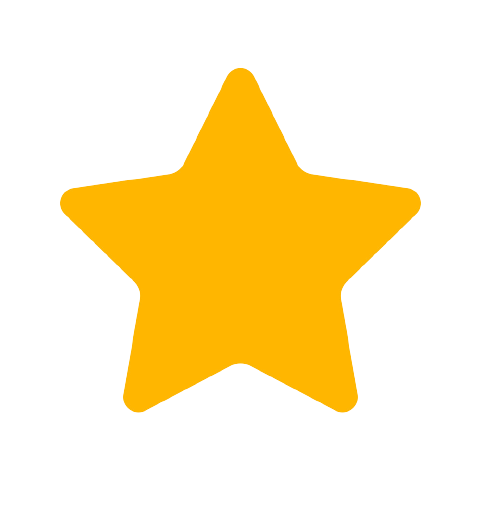
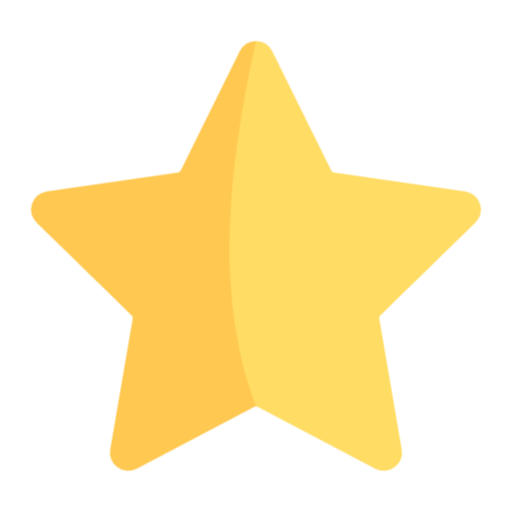
edited ui for watchlist table

diff --git a/vueApp/src/components/Watchlist/WatchlistTable.vue b/vueApp/src/components/Watchlist/WatchlistTable.vue
@@ -1,34 +1,191 @@
 <template>
-    <div>
-        <ScrollableTable :headers="tableHeaders" :rows="tableRows" />
-    </div>
+  <div class="table-container">
+    <table id="scrollable-table" class="auto-index">
+      <thead>
+        <tr>
+          <th>#</th>
+          <th>Name</th>
+          <th>Ticker</th>
+          <th>Price</th>
+          <th></th>
+        </tr>
+      </thead>
+
+      <tbody>
+        <tr v-for="(item, index) in watchlistData" :key="item.Stock">
+          <td>{{ index + 1 }}</td>
+          <td>{{ item.Stock }}</td>
+
+          <td>
+            <!-- Display Delete button if not in editing state -->
+            <button class="btw" @click="deleteItem(item)">
+              <img src="@/assets/deleteIcon.png" alt="Delete" />
+            </button>
+          </td>
+        </tr>
+      </tbody>
+    </table>
+
+    <!-- Display message if watchlist is empty -->
+    <p v-if="hasData == false" class="no-stocks-message">
+      You have not added any stocks to your watchlist.
+    </p>
+  </div>
 </template>
 
 <script>
+import { editInstrument, deleteInstrument } from "@/firebasefunc.js";
+import { COLLECTION_NAMES } from "@/firebaseConfig.js";
+import firebaseApp from "@/firebase.js";
+import { getAuth, onAuthStateChanged } from "firebase/auth";
 
-  import ScrollableTable from '@/components/Common/ScrollableTable.vue';
-  
-  export default {
-    components: {
-      ScrollableTable,
+export default {
+  data() {
+    return {
+      stockName: "",
+      wishlistData: [],
+      useremail: "",
+    };
+  },
+
+  async mounted() {
+    const auth = getAuth();
+    onAuthStateChanged(auth, (user) => {
+      if (user) {
+        this.useremail = user.email;
+        this.fetchWishlistData();
+      } else {
+        this.useremail = ""; // Ensure it's cleared when the user signs out
+        this.wishlistData = [];
+      }
+    });
+  },
+
+  props: {
+    watchlistData: Array,
+    hasData: Boolean,
+  },
+
+  methods: {
+    async deleteItem(stock) {
+      await deleteInstrument(COLLECTION_NAMES.WISHLIST, this.useremail, stock);
+
+      this.$emit("refresh-request");
     },
-    data() {
-      return {
-        tableHeaders: ['#', 'Name', 'Price', '% Change', 'Market Cap', 'Volume'],
-        tableRows: [
-        ["Apple", "$XXX", "0.00%", " $XXX", "$XXX"],
-          ["Apple", "$XXX", "0.00%", " $XXX", "$XXX"],
-          ["Apple", "$XXX", "0.00%", " $XXX", "$XXX"],
-          ["Apple", "$XXX", "0.00%", " $XXX", "$XXX"],
-          ["Apple", "$XXX", "0.00%", " $XXX", "$XXX"],
-          ["Apple", "$XXX", "0.00%", " $XXX", "$XXX"],
-          ["Apple", "$XXX", "0.00%", " $XXX", "$XXX"],
-          ["Apple", "$XXX", "0.00%", " $XXX", "$XXX"],
-          ["Apple", "$XXX", "0.00%", " $XXX", "$XXX"],
-          
-          // Add more rows as needed
-        ],
-      };
+
+    async fetchWishlistData() {
+      const db = firebaseApp.firestore(); // Assuming you have already initialized the Firestore instance
+
+      const subcollectionRef = collection(db, "wishlist");
+
+      const querySnapshot = await getDocs(subcollectionRef);
+
+      this.wishlistData = [];
+
+      querySnapshot.forEach((doc) => {
+        this.wishlistData.push(doc.data());
+      });
     },
-  };
-  </script>
+  },
+};
+</script>
+
+<style>
+/* Box */
+.table-container {
+  height: 33vw;
+  overflow-y: auto;
+  border-radius: 25px;
+  justify-content: center;
+  background-color: white;
+  box-shadow: 0 8px 10px rgba(0, 0, 0, 0.3);
+  margin-bottom: 0;
+}
+
+/* Table */
+#scrollable-table {
+  width: 90%;
+  background-color: white;
+  border-collapse: collapse;
+  margin: 0 auto;
+}
+
+#scrollable-table th,
+#scrollable-table td {
+  padding: 0.3vw;
+  text-align: center;
+  border-bottom: 2px solid #d0d0d0;
+  padding-bottom: 2.7%;
+  padding-top: 2.7%;
+  font-size: 1.7vw;
+  font-weight: bold;
+}
+
+#scrollable-table th {
+  padding-top: 2vw;
+  background-color: white;
+}
+
+#scrollable-table thead th {
+  position: sticky;
+  top: 0;
+}
+
+/* Add styles for input elements within table cells */
+#scrollable-table input[type="number"] {
+  width: 25%;
+  padding: 0.6vw;
+  border: 1px solid #ccc;
+  border-radius: 10px;
+  font-size: 1.2vw;
+  font-weight: bold;
+  text-align: center;
+}
+
+#scrollable-table input[type="number"]:focus {
+  outline: none; /* Remove the default focus outline */
+  border-color: #007bff; /* Change border color when focused */
+}
+
+/* No Trades message */
+.no-stocks-message {
+  color: #bfbfbf; /* Change the color to your desired color */
+  border-bottom: none !important;
+  padding-top: 11vw !important;
+  text-align: center;
+  font-size: 1.8vw;
+  font-weight: bold;
+  padding-left: 10%;
+  padding-right: 10%;
+}
+
+/* Delete/Edit Button */
+.btw {
+  background: none;
+  border: none;
+  padding: 0;
+  cursor: pointer;
+  display: inline;
+  margin-right: 0.5vw;
+}
+
+.btw img:hover {
+  transform: scale(1.3); /* Increase the value to make it scale more */
+  transition: transform 0.2s ease-in-out; /* Add a smooth transition effect */
+}
+
+.btw img {
+  width: 1.8vw;
+  height: auto;
+}
+
+#saveButton img {
+  width: 2vw;
+  height: auto;
+}
+
+#cancelButton img {
+  width: 1.5vw;
+  height: auto;
+}
+</style>

diff --git a/vueApp/src/components/Watchlist/AddToWatchlist.vue b/vueApp/src/components/Watchlist/AddToWatchlist.vue
@@ -9,7 +9,7 @@
         placeholder="Search by company name/code"
       />
       <button type="button" class="add-button"  @click="savetofs()">
-        <img src="@/assets/star.png" alt="" class="star-icon" />
+        <img src="@/assets/starIcon.png" alt="" class="star-icon" />
         <span class="add-text">Add</span>
       </button>
     </form>
